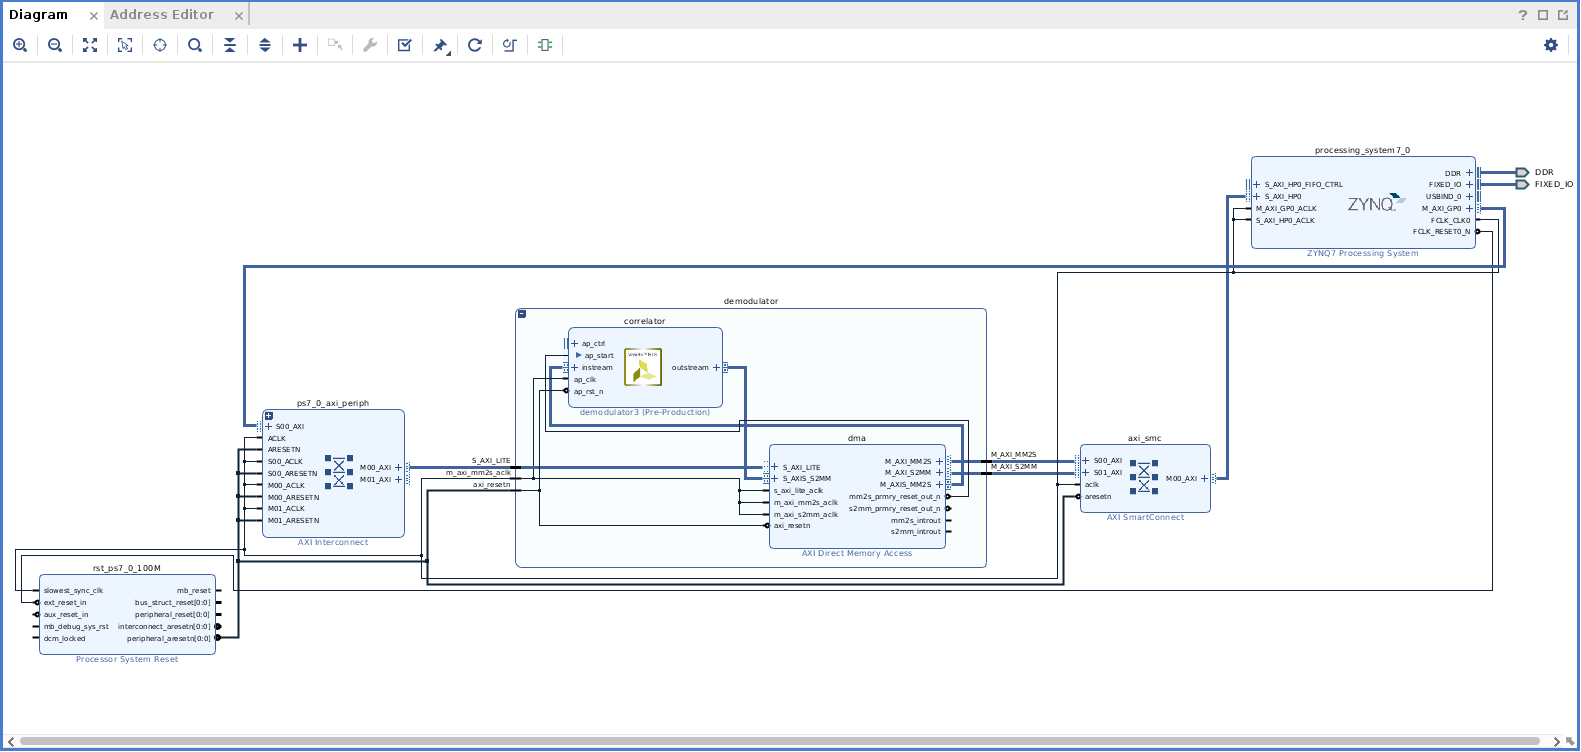
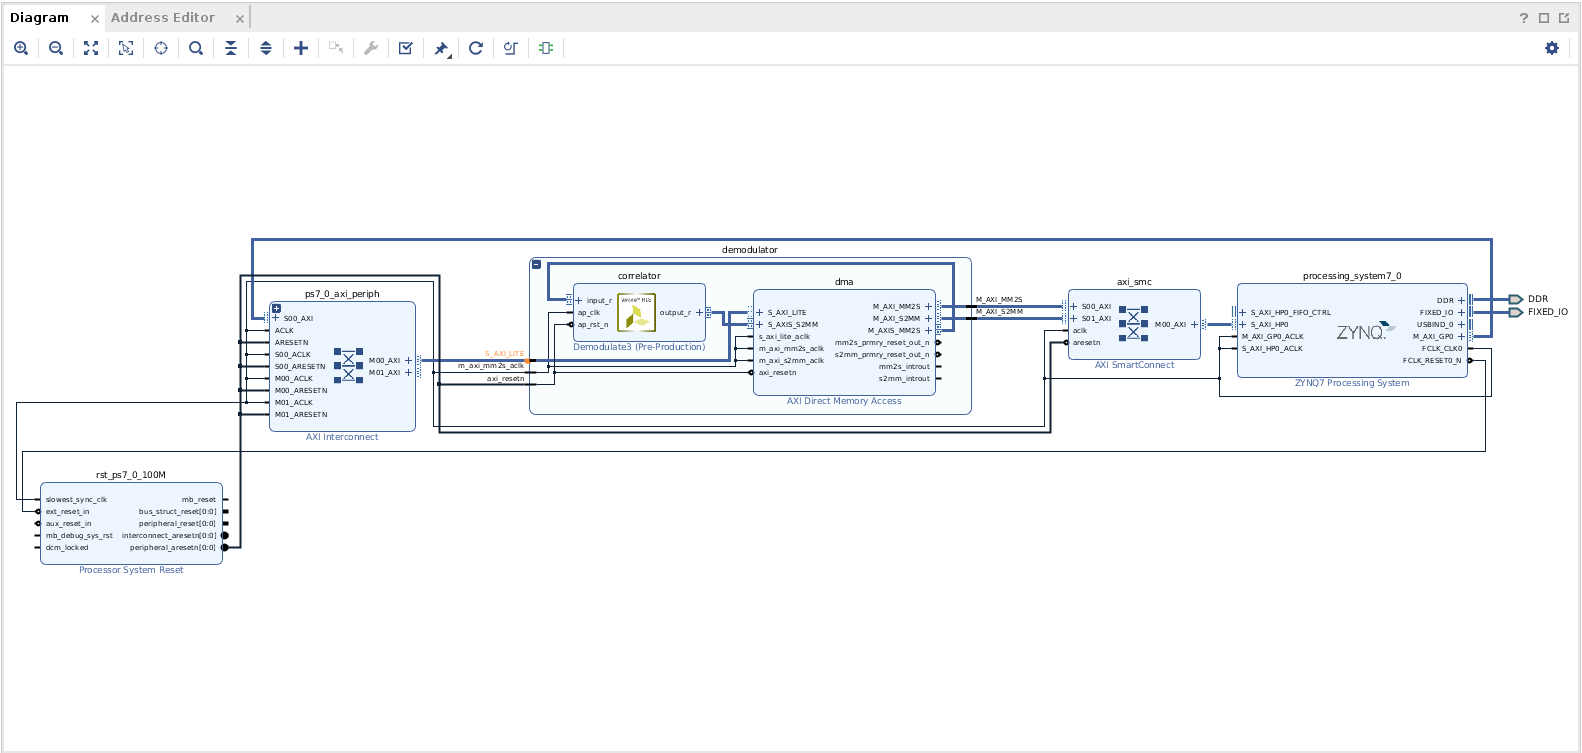
Update project_03 HLS and block diagram to fix stream/DMA.

Changed region(s): [[0.0, 0.0, 1.0, 1.0], [0.8368, 0.1835, 0.8988, 0.2141], [0.0, 0.5199, 0.031, 0.5505]]

diff --git a/project_03/HLS/demodulate.cpp b/project_03/HLS/demodulate.cpp
@@ -37,27 +37,23 @@ InOut fir_filter(InOut x, Filter (&coeff)[N])
 
 ap_shift_reg<bool, 12> delay_line;
 
-void demodulate3(instream_type& instream, outstream_type& outstream)
+void demodulate3(idata_type& input, odata_type& output)
 {
-#pragma HLS INTERFACE axis port=instream
-#pragma HLS INTERFACE axis port=outstream
-#pragma HLS interface ap_ctrl_hs port=return
-#pragma HLS stream variable=instream depth=26400
-#pragma HLS stream variable=outstream depth=26400
+#pragma HLS INTERFACE axis port=input
+#pragma HLS INTERFACE axis port=output
+#pragma HLS interface ap_ctrl_none port=return
 
+	ap_int<16> filtered;
+	ap_int<1> comp, delayed;
 
-	idata_type input;
-	odata_type output;
-	int16_t filtered;
-	bool comp, delayed;
-
-    demod_loop: while (!instream.empty()) {
-    	instream >> input;
-    	filtered = fir_filter(input.data, bpf_coeffs);
-    	comp = filtered >= 0;
-    	delayed = delay_line.shift(comp);
-    	output.data = comp ^ delayed;
-    	output.last = instream.empty();
-    	outstream << output;
-    }
+	filtered = fir_filter(input.data, bpf_coeffs);
+	comp = filtered >= 0 ? 1 : 0;
+	delayed = delay_line.shift(comp);
+	output.data = comp ^ delayed;
+    output.dest = input.dest;
+    output.id = input.id;
+    output.keep = input.keep;
+    output.last = input.last;
+    output.strb = input.strb;
+    output.user = input.user;
 }

diff --git a/project_03/HLS/demodulate_test.cpp b/project_03/HLS/demodulate_test.cpp
@@ -40,25 +40,20 @@ const bool corr_data[] = {
 
 int main()
 {
-    instream_type input;
-    outstream_type output;
 
     idata_type tmp_in;
-    for (int i = 0; i != sizeof(audio_data)/2; ++i)
-    {
-    	tmp_in.data = audio_data[i];
-        input << tmp_in;
-    }
-
-    demodulate3(input, output);
+	odata_type tmp_out;
 
     bool failed = false;
     const bool* c = corr_data;
-	odata_type tmp;
-    while (!output.empty())
+
+    const int last = sizeof(audio_data)/2 - 1;
+    for (int i = 0; i != sizeof(audio_data)/2; ++i)
     {
-        output >> tmp;
-        bool t = static_cast<bool>(tmp.data);
+    	tmp_in.data = audio_data[i];
+    	if (last == i) tmp_in.last = true;
+    	demodulate3(tmp_in, tmp_out);
+    	bool t = static_cast<bool>(tmp_out.data);
         if (*c != t) {
 			printf("got %d, expected %d\n", t, *c);
 			failed = true;
@@ -66,7 +61,7 @@ int main()
         ++c;
     }
 
-    if (!tmp.last) {
+    if (!tmp_out.last) {
     	printf("TLAST not set");
     	failed = true;
     }

diff --git a/project_03/HLS/demodulate.hpp b/project_03/HLS/demodulate.hpp
@@ -5,8 +5,6 @@
 #define BPF_COEFF_LEN 141
 
 typedef ap_axis<16,1,1,1> idata_type;
-typedef hls::stream<idata_type> instream_type;
 typedef ap_axis<1,1,1,1> odata_type;
-typedef hls::stream<odata_type> outstream_type;
 
-void demodulate3(instream_type& input, outstream_type& output);
+void demodulate3(idata_type input, odata_type& output);
